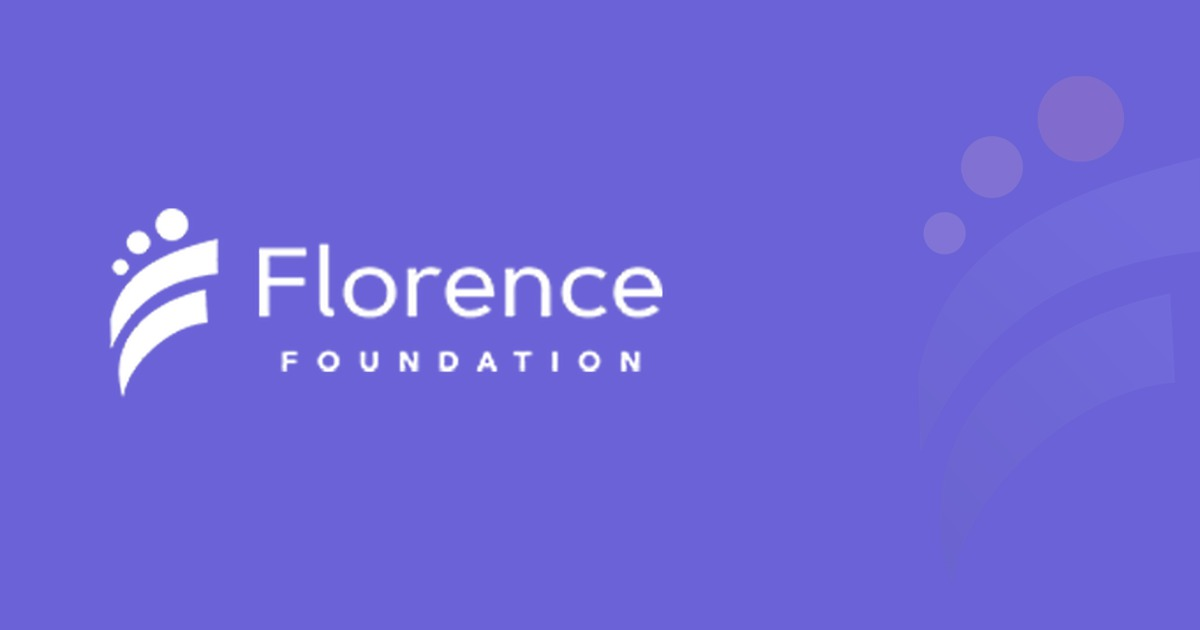
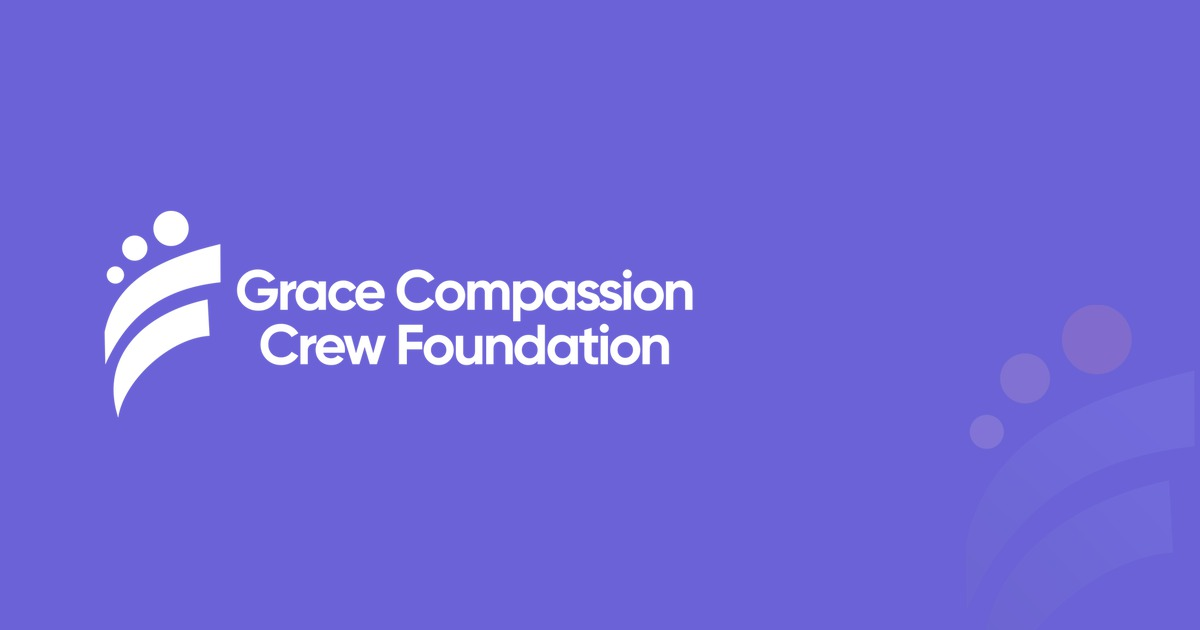
Rebrand from Florence Foundation to Grace Compassion Crew Foundation
Swaps the logo wordmark (color + white variants) for the new lockup,
keeping the existing icon mark unchanged, and renames the files so
browsers don't keep serving the old logo from Next's immutable image
cache. Replaces the display name across every public page, the admin
dashboard, metadata/JSON-LD/SEO copy, the contact email "from" name
(code default and the live Vercel env var), and the Open Graph image.
Updates the live site_settings row, bank account names, and the one
affected gallery image alt text in Supabase to match.

Deliberately left unchanged: the florencefoundation.co.uk domain,
info@florencefoundation.co.uk mailbox, @florencefoundation_ Instagram
handle, and the GitHub/Vercel/Supabase project identifiers — these are
real external accounts tied to the old name, not a code change, and
are called out in the README for follow-up.

Changed region(s): [[0.0617, 0.3317, 0.5858, 0.6635]]

diff --git a/src/content/site.ts b/src/content/site.ts
@@ -1,17 +1,23 @@
 // Site-wide configuration and fallback content.
 // Fields marked PLACEHOLDER were sample data in the design export and must be
-// confirmed with Florence Foundation and/or moved into Website Settings in /admin
+// confirmed with Grace Compassion Crew Foundation and/or moved into Website Settings in /admin
 // before launch.
+//
+// NOTE: `url`, `email` and `social.instagram` below still point at the
+// florencefoundation.co.uk domain / @florencefoundation_ handle — renaming the
+// organization's display name doesn't move these to new accounts. Update them
+// here (and in Website Settings in /admin, which take priority over this file)
+// once new domain/email/social accounts for Grace Compassion Crew Foundation exist.
 
 export const siteConfig = {
-  name: "Florence Foundation",
+  name: "Grace Compassion Crew Foundation",
   tagline: "We Empower People, We Feed People, We Give Hope to People.",
   url: "https://www.florencefoundation.co.uk",
-  defaultTitle: "Florence Foundation — We Empower People, We Feed People, We Give Hope to People",
+  defaultTitle: "Grace Compassion Crew Foundation — We Empower People, We Feed People, We Give Hope to People",
   defaultDescription:
-    "Florence Foundation is a UK and Nigeria based charity providing food aid, clean water, healthcare, education, child sponsorship and women's empowerment programmes across Africa.",
+    "Grace Compassion Crew Foundation is a UK and Nigeria based charity providing food aid, clean water, healthcare, education, child sponsorship and women's empowerment programmes across Africa.",
   keywords: [
-    "Florence Foundation",
+    "Grace Compassion Crew Foundation",
     "humanitarian aid charity UK",
     "poverty alleviation Nigeria",
     "food aid charity",
@@ -34,8 +40,12 @@ export const siteConfig = {
 } as const;
 
 // PLACEHOLDER — sample bank details from the design export. Must be replaced
-// with Florence Foundation's verified banking information before launch.
+// with Grace Compassion Crew Foundation's verified banking information before launch.
 // This will move into Website Settings (/admin) once Supabase is connected.
+//
+// IMPORTANT: "Account name" must match the LEGAL name on the actual bank
+// account, not just the brand name — a mismatch can cause bank transfers to
+// be rejected or flagged. Confirm with the bank before relying on this value.
 export const bankAccounts = [
   {
     key: "uk",
@@ -43,7 +53,7 @@ export const bankAccounts = [
     country: "UK Account",
     currency: "GBP £",
     rows: [
-      ["Account name", "Florence Foundation"],
+      ["Account name", "Grace Compassion Crew Foundation"],
       ["Bank name", "Barclays Bank UK PLC"],
       ["Sort code", "20-45-77"],
       ["Account number", "43218765"],
@@ -57,7 +67,7 @@ export const bankAccounts = [
     country: "Nigeria Account",
     currency: "NGN ₦",
     rows: [
-      ["Account name", "Florence Foundation"],
+      ["Account name", "Grace Compassion Crew Foundation"],
       ["Bank name", "Zenith Bank Plc"],
       ["Account number", "1013579246"],
       ["Account type", "Current"],

diff --git a/src/app/about/page.tsx b/src/app/about/page.tsx
@@ -10,7 +10,7 @@ import { aboutAreas, aboutImpact, team } from "@/content/about";
 export const metadata: Metadata = {
   title: "About Us",
   description:
-    "Florence Foundation is dedicated to creating meaningful change in marginalised communities across the United Kingdom, Nigeria and the wider African continent through poverty alleviation, clean water, healthcare, education and women's empowerment.",
+    "Grace Compassion Crew Foundation is dedicated to creating meaningful change in marginalised communities across the United Kingdom, Nigeria and the wider African continent through poverty alleviation, clean water, healthcare, education and women's empowerment.",
   alternates: { canonical: "/about" },
 };
 
@@ -23,7 +23,7 @@ export default function AboutPage() {
         imagePos="48% 35%"
         watermark="Hope"
         crumbs={[{ label: "Home", href: "/" }, { label: "About Us" }]}
-        title="About Florence Foundation"
+        title="About Grace Compassion Crew Foundation"
         subtitle="Driven by Compassion. Committed to Hope."
       />
 
@@ -43,7 +43,7 @@ export default function AboutPage() {
             <span className="block font-heading text-[clamp(48px,6.4vw,96px)] leading-[0.95] font-extrabold tracking-[-0.035em] text-transparent [-webkit-text-stroke:1.5px_#302F35]">
               African continent
             </span>
-            <p className="mt-1 text-sm text-ink-600">Where Florence Foundation works</p>
+            <p className="mt-1 text-sm text-ink-600">Where Grace Compassion Crew Foundation works</p>
           </div>
           <div>
             <Kicker>WHO WE ARE</Kicker>
@@ -51,7 +51,7 @@ export default function AboutPage() {
               Building Hope. Empowering Communities.
             </h2>
             <p className="mb-5 font-heading text-[19px] font-semibold leading-[1.6] text-ink-900">
-              Florence Foundation is dedicated to creating meaningful change in marginalised
+              Grace Compassion Crew Foundation is dedicated to creating meaningful change in marginalised
               communities by addressing poverty, hunger, healthcare needs, access to clean water,
               educational inequality, and barriers to women&apos;s empowerment.
             </p>
@@ -258,7 +258,7 @@ export default function AboutPage() {
               The people behind our mission.
             </h2>
             <p className="mb-8 text-[17px] leading-relaxed text-ink-700">
-              Florence Foundation is led by people committed to compassion, dignity, and
+              Grace Compassion Crew Foundation is led by people committed to compassion, dignity, and
               meaningful change.
             </p>
             <PillLink href="/contact" variant="accent" className="border-2 border-accent-300 !bg-white !text-ink-900 hover:!bg-accent-50">

diff --git a/src/app/support/page.tsx b/src/app/support/page.tsx
@@ -9,7 +9,7 @@ import { getSiteSettings } from "@/lib/site-settings";
 export const metadata: Metadata = {
   title: "Support Us",
   description:
-    "Support Florence Foundation through donations, child sponsorship, or by giving essential goods. Every contribution helps provide food, care, education and opportunities to vulnerable communities.",
+    "Support Grace Compassion Crew Foundation through donations, child sponsorship, or by giving essential goods. Every contribution helps provide food, care, education and opportunities to vulnerable communities.",
   alternates: { canonical: "/support" },
 };
 
@@ -42,7 +42,7 @@ export default async function SupportPage() {
               Your Generosity Can Make a Difference.
             </h1>
             <p className="mt-7 mb-10 max-w-[520px] text-lg leading-[1.7] text-ink-700">
-              Every contribution helps Florence Foundation pursue its mission of providing food,
+              Every contribution helps Grace Compassion Crew Foundation pursue its mission of providing food,
               care, education, and opportunities to vulnerable communities.
             </p>
             <div className="flex flex-wrap gap-3.5">
@@ -73,7 +73,7 @@ export default async function SupportPage() {
               <span className="font-heading text-[15px] font-extrabold text-brand-500">01</span>
               <h3 className="mt-10 mb-3 font-heading text-[26px] font-extrabold tracking-[-0.015em] text-ink-900">Make a Donation</h3>
               <p className="mb-7 flex-1 text-base leading-relaxed text-ink-700">
-                Contribute financially to support Florence Foundation&apos;s humanitarian
+                Contribute financially to support Grace Compassion Crew Foundation&apos;s humanitarian
                 programmes and community initiatives.
               </p>
               <PillLink href="#donate">Donate Now <span aria-hidden="true">↓</span></PillLink>
@@ -163,7 +163,7 @@ export default async function SupportPage() {
             <div>
               <p className="mb-4 font-heading text-[13px] font-bold tracking-[0.16em] text-brand-500">DONATE BY BANK TRANSFER</p>
               <h2 id="bank-h" className="m-0 font-heading text-[clamp(34px,3.8vw,54px)] font-extrabold leading-[1.08] tracking-[-0.02em] text-ink-900">
-                Give directly to Florence Foundation.
+                Give directly to Grace Compassion Crew Foundation.
               </h2>
             </div>
             <p className="max-w-[560px] text-[17px] leading-[1.7] text-ink-700">

diff --git a/src/app/contact/page.tsx b/src/app/contact/page.tsx
@@ -8,7 +8,7 @@ import { getSiteSettings } from "@/lib/site-settings";
 export const metadata: Metadata = {
   title: "Contact Us",
   description:
-    "Get in touch with Florence Foundation to support our initiatives, explore a partnership, donate essential goods, or learn more about our humanitarian work.",
+    "Get in touch with Grace Compassion Crew Foundation to support our initiatives, explore a partnership, donate essential goods, or learn more about our humanitarian work.",
   alternates: { canonical: "/contact" },
 };
 
@@ -20,7 +20,7 @@ export default async function ContactPage() {
       {/* MAP HERO */}
       <section aria-labelledby="c-hero-h" className="relative h-[clamp(460px,44vw,600px)] overflow-hidden bg-brand-50">
         <iframe
-          title="Map showing Florence Foundation's sample address in London"
+          title="Map showing Grace Compassion Crew Foundation's sample address in London"
           src="https://www.openstreetmap.org/export/embed.html?bbox=-0.1395%2C51.5075%2C-0.1085%2C51.5195&layer=mapnik&marker=51.5131%2C-0.1257"
           className="absolute inset-0 h-full w-full border-0 [filter:saturate(0.6)_hue-rotate(10deg)]"
           loading="lazy"
@@ -51,7 +51,7 @@ export default async function ContactPage() {
               <div className="ml-[53px] inline-flex items-start gap-3.5 rounded-2xl bg-white px-5 py-4 shadow-xl">
                 <Image src="/images/symbol.png" alt="" aria-hidden="true" width={36} height={36} className="h-9 w-9" />
                 <div>
-                  <p className="m-0 mb-0.5 font-heading text-[15px] font-extrabold text-ink-900">Florence Foundation</p>
+                  <p className="m-0 mb-0.5 font-heading text-[15px] font-extrabold text-ink-900">Grace Compassion Crew Foundation</p>
                   <p className="m-0 text-sm leading-snug text-ink-700">{settings.address}</p>
                 </div>
               </div>
@@ -70,7 +70,7 @@ export default async function ContactPage() {
             </h2>
             <p className="mb-10 max-w-[620px] text-lg leading-[1.7] text-ink-700">
               Whether you would like to support our initiatives, explore a partnership, donate
-              essential goods, or learn more about Florence Foundation, we welcome your enquiry.
+              essential goods, or learn more about Grace Compassion Crew Foundation, we welcome your enquiry.
             </p>
             <Suspense fallback={null}>
               <ContactForm />

diff --git a/src/content/projects.ts b/src/content/projects.ts
@@ -1,4 +1,4 @@
-// Florence Foundation programme data. Source: Florence Foundation Narrative.
+// Grace Compassion Crew Foundation programme data. Source: Grace Compassion Crew Foundation Narrative.
 // Status values: 'Ongoing' (described in present tense), 'Active appeal'
 // (currently seeking donations), 'Planned' (described as future intent).
 
@@ -83,7 +83,7 @@ export const projects: Project[] = [
     amount: "£5",
     amountLabel: "Child sponsorship from £5 per month.",
     lead: "Through child sponsorship, we seek to support children's essential needs, wellbeing, and access to opportunities that help them build a better future.",
-    overview: "Sponsoring a child through Florence Foundation helps give them access to nutritious meals, a loving and caring home, good hygiene and sanitation, and much more.",
+    overview: "Sponsoring a child through Grace Compassion Crew Foundation helps give them access to nutritious meals, a loving and caring home, good hygiene and sanitation, and much more.",
     problem: "Children growing up in poverty often go without the essentials and opportunities that other children rely on.",
     objectives: [
       "Access to nutritious meals",
@@ -94,7 +94,7 @@ export const projects: Project[] = [
     activities: [
       { t: "Monthly child sponsorship", d: "£5 a month helps a sponsored child live well, eat well, and have a roof over their head.", s: "Active appeal" },
     ],
-    beneficiaries: "Children supported through the Florence Foundation sponsorship programme.",
+    beneficiaries: "Children supported through the Grace Compassion Crew Foundation sponsorship programme.",
     quote: "Our aim is to give them the opportunities that other children have.",
     photos: [
       { src: "/images/children-two.jpg", pos: "50% 20%", alt: "Two children, one with an arm around the other" },

diff --git a/src/app/page.tsx b/src/app/page.tsx
@@ -53,7 +53,7 @@ export default async function HomePage() {
                 <span className="h-3 w-3 rounded-full bg-accent-500" />
               </span>
               <span className="font-heading text-[13px] font-bold tracking-[0.16em] text-brand-500">
-                FLORENCE FOUNDATION
+                GRACE COMPASSION CREW FOUNDATION
               </span>
             </div>
             <h1
@@ -177,7 +177,7 @@ export default async function HomePage() {
               Compassion in Action. Hope for Every Community.
             </h2>
             <p className="mb-10 max-w-[520px] text-lg leading-[1.7] text-ink-700">
-              At Florence Foundation, we believe everyone deserves the opportunity to live with
+              At Grace Compassion Crew Foundation, we believe everyone deserves the opportunity to live with
               dignity, access essential resources, and build a better future. Through
               community-centred initiatives and partnerships, we work to alleviate suffering and
               create lasting opportunities.
@@ -247,7 +247,7 @@ export default async function HomePage() {
               A Fresh Hot Meal Can Make a Difference.
             </h2>
             <p className="mb-9 max-w-[520px] text-lg leading-[1.7] text-ink-light">
-              Through our Fresh Hot Meal initiative, Florence Foundation seeks to provide
+              Through our Fresh Hot Meal initiative, Grace Compassion Crew Foundation seeks to provide
               nutritious meals and food support to individuals and families facing hardship.
             </p>
             <div className="mb-9 flex max-w-[520px] items-center gap-6 rounded-3xl bg-ink-800 px-7 py-6">

diff --git a/src/app/admin/layout.tsx b/src/app/admin/layout.tsx
@@ -33,7 +33,7 @@ export default async function AdminLayout({ children }: { children: React.ReactN
           <h1 className="mb-2 font-heading text-xl font-extrabold text-ink-900">Not authorized</h1>
           <p className="mb-6 text-sm leading-relaxed text-ink-600">
             You&apos;re signed in as <strong>{user.email}</strong>, but this account isn&apos;t on the
-            admin allowlist for Florence Foundation. Ask an existing admin to add you.
+            admin allowlist for Grace Compassion Crew Foundation. Ask an existing admin to add you.
           </p>
           <form action={signOut}>
             <button type="submit" className="rounded-full border-2 border-accent-300 px-6 py-3 font-heading text-sm font-bold text-ink-900 hover:bg-accent-50">
@@ -49,7 +49,7 @@ export default async function AdminLayout({ children }: { children: React.ReactN
     <div className="flex min-h-screen bg-surface">
       <aside className="flex w-64 flex-shrink-0 flex-col border-r border-border bg-white">
         <div className="flex items-center gap-2 border-b border-border-4 px-6 py-5">
-          <Image src="/images/logo-color.png" alt="Florence Foundation" width={140} height={36} className="h-9 w-auto" />
+          <Image src="/images/logo-gccf-color.png" alt="Grace Compassion Crew Foundation" width={140} height={36} className="h-9 w-auto" />
         </div>
         <nav className="flex-1 px-3 py-4">
           {navItems.map((item) => (

diff --git a/src/components/layout/Header.tsx b/src/components/layout/Header.tsx
@@ -88,10 +88,10 @@ export default function Header() {
             scrolled ? "h-[76px]" : "h-20 lg:h-24"
           }`}
         >
-          <Link href="/" aria-label="Florence Foundation home" className="flex flex-shrink-0 items-center">
+          <Link href="/" aria-label="Grace Compassion Crew Foundation home" className="flex flex-shrink-0 items-center">
             <Image
-              src="/images/logo-color.png"
-              alt="Florence Foundation"
+              src="/images/logo-gccf-color.png"
+              alt="Grace Compassion Crew Foundation"
               width={200}
               height={52}
               className="h-11 w-auto lg:h-[52px]"
@@ -170,7 +170,7 @@ export default function Header() {
             className="fixed inset-y-0 right-0 z-[100] flex w-[min(88vw,380px)] flex-col overflow-y-auto bg-white px-6 py-5 font-body"
           >
             <div className="mb-7 flex items-center justify-between">
-              <Image src="/images/logo-color.png" alt="Florence Foundation" width={160} height={44} className="h-11 w-auto" />
+              <Image src="/images/logo-gccf-color.png" alt="Grace Compassion Crew Foundation" width={160} height={44} className="h-11 w-auto" />
               <button
                 type="button"
                 ref={closeRef}

diff --git a/src/components/contact/ContactForm.tsx b/src/components/contact/ContactForm.tsx
@@ -127,7 +127,7 @@ export default function ContactForm() {
           </svg>
         </span>
         <h3 className="mb-2.5 font-heading text-2xl font-extrabold text-ink-900">Thank you, your message has been sent.</h3>
-        <p className="mb-6 text-base leading-relaxed text-ink-700">A member of the Florence Foundation team will reply to you by email.</p>
+        <p className="mb-6 text-base leading-relaxed text-ink-700">A member of the Grace Compassion Crew Foundation team will reply to you by email.</p>
         <button
           type="button"
           onClick={reset}
@@ -255,7 +255,7 @@ export default function ContactForm() {
             aria-invalid={Boolean(errors.consent)}
             className="mt-0.5 h-[22px] w-[22px] flex-shrink-0 accent-brand-500"
           />
-          <span>I agree that Florence Foundation may use these details to respond to my enquiry. <span className="text-accent-800">*</span></span>
+          <span>I agree that Grace Compassion Crew Foundation may use these details to respond to my enquiry. <span className="text-accent-800">*</span></span>
         </label>
         <span className="text-[13px] text-accent-800">{errors.consent}</span>
       </div>

diff --git a/src/app/projects/page.tsx b/src/app/projects/page.tsx
@@ -8,7 +8,7 @@ import { getAllProjects } from "@/lib/projects-data";
 export const metadata: Metadata = {
   title: "Our Projects",
   description:
-    "Explore Florence Foundation's humanitarian programmes: food aid, child sponsorship, education, women's empowerment, clean water and healthcare across Nigeria and the wider African continent.",
+    "Explore Grace Compassion Crew Foundation's humanitarian programmes: food aid, child sponsorship, education, women's empowerment, clean water and healthcare across Nigeria and the wider African continent.",
   alternates: { canonical: "/projects" },
 };
 
@@ -37,7 +37,7 @@ export default async function ProjectsPage() {
             </h2>
           </div>
           <p className="max-w-[560px] text-lg leading-[1.7] text-ink-700">
-            Florence Foundation responds to humanitarian challenges through programmes that
+            Grace Compassion Crew Foundation responds to humanitarian challenges through programmes that
             address immediate needs while supporting education, health, empowerment, and
             sustainable community wellbeing.
           </p>

diff --git a/src/components/layout/Footer.tsx b/src/components/layout/Footer.tsx
@@ -19,8 +19,8 @@ export default function Footer({ settings }: { settings: ResolvedSiteSettings })
         <div className="grid gap-12 pb-[72px] sm:grid-cols-2 lg:grid-cols-4 lg:gap-10">
           <div className="max-w-[340px]">
             <Image
-              src="/images/logo-white.png"
-              alt="Florence Foundation"
+              src="/images/logo-gccf-white.png"
+              alt="Grace Compassion Crew Foundation"
               width={220}
               height={64}
               className="mb-6 h-16 w-auto"
@@ -63,7 +63,7 @@ export default function Footer({ settings }: { settings: ResolvedSiteSettings })
               href={settings.social.instagram}
               target="_blank"
               rel="noopener"
-              aria-label="Florence Foundation on Instagram"
+              aria-label="Grace Compassion Crew Foundation on Instagram"
               className="mt-1.5 inline-flex items-center gap-2.5 text-base text-white hover:text-brand-200"
             >
               <span className="flex h-10 w-10 items-center justify-center rounded-full border border-ink-divider">

diff --git a/src/app/gallery/page.tsx b/src/app/gallery/page.tsx
@@ -35,7 +35,7 @@ async function getGalleryAlbums() {
 export const metadata: Metadata = {
   title: "Gallery",
   description:
-    "Photos from Florence Foundation's community outreach, Grace & Mercy Project (GAMP) ceremonies, and humanitarian work across Nigeria and the wider African continent.",
+    "Photos from Grace Compassion Crew Foundation's community outreach, Grace & Mercy Project (GAMP) ceremonies, and humanitarian work across Nigeria and the wider African continent.",
   alternates: { canonical: "/gallery" },
 };
 
@@ -65,7 +65,7 @@ export default async function GalleryPage() {
             </div>
             <p className="max-w-[560px] text-lg leading-[1.7] text-ink-700">
               Explore moments that reflect the people, communities, and causes at the heart of
-              Florence Foundation&apos;s mission.
+              Grace Compassion Crew Foundation&apos;s mission.
             </p>
           </div>
 
